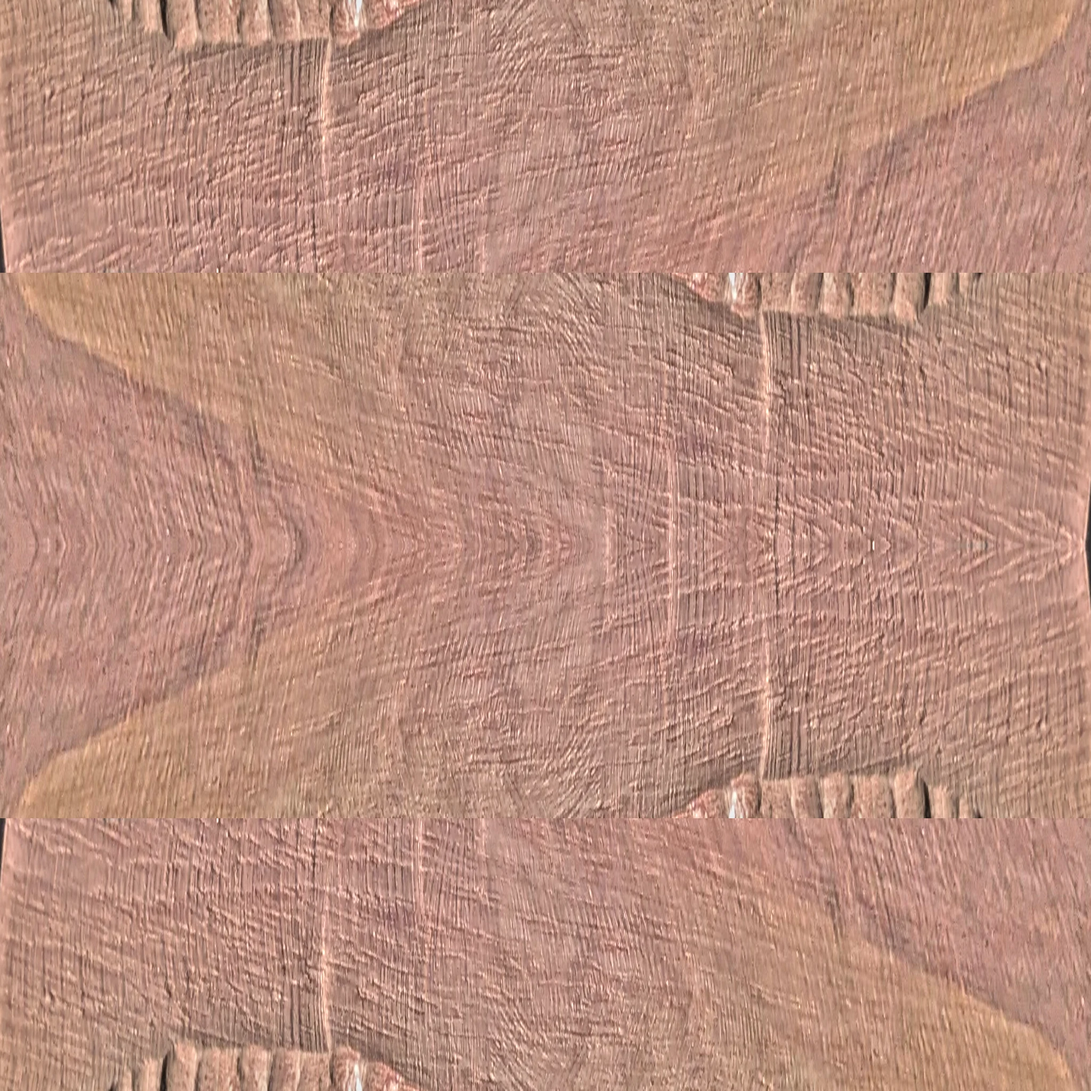
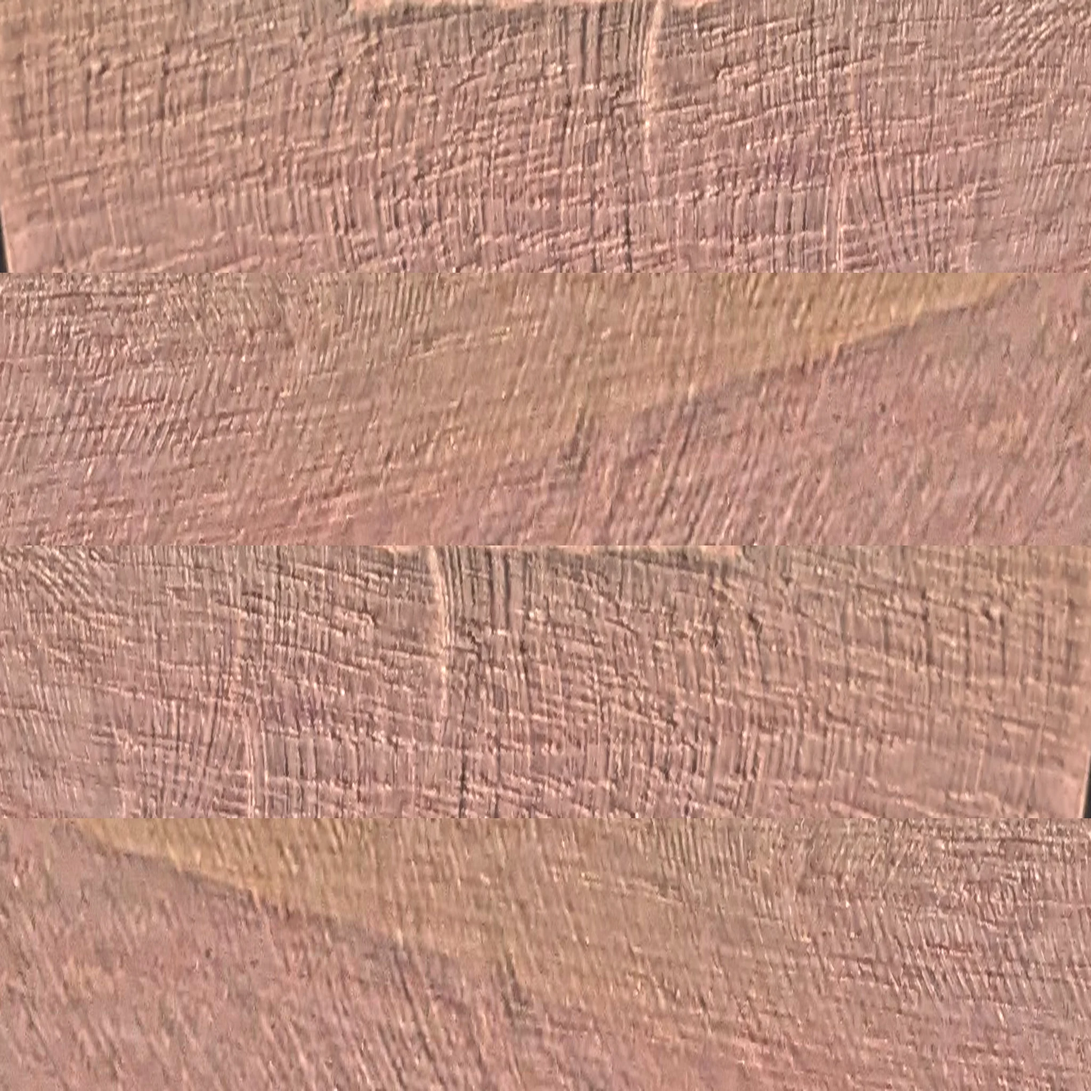
feat(diploma): a polaroid of the real model that turns the 3D
Top left of the site model panel, beside the text: the first eight photos of
the real model, taken every 45 degrees around it. A click brings the next
photo on top and turns the 3D to show the model from the same side; eight
clicks, a full turn. The photos are framed on the centre of the model at the
same size, so going through them the model turns on itself, and share the
same wood colour as the 3D.

The sawn sides now use two distinct pieces of the lit face, so neighbouring
sides never repeat, and no strip of the carved edge shows at their foot.

diff --git a/index.html b/index.html
@@ -1235,6 +1235,24 @@
                         <div class="sticker-title-wrap sticker-title-wrap--right">
                             <h3 class="sticker-title font-sketch" data-i18n="proj_panel_model">MAQUETTE DE SITE</h3>
                         </div>
+                        <!-- The eight first photos of the real model, one every 45 degrees around it: each click
+                             brings the next one on top and turns the 3D to the same side. -->
+                        <button class="site-model-polaroid" type="button" aria-label="Photos de la vraie maquette : photo suivante, et la maquette 3D tourne d'un huitième de tour pour la montrer du même côté" data-i18n-aria="aria_model_polaroid">
+                            <span class="site-model-polaroid-frame">
+                                <span class="site-model-polaroid-window">
+                                    <img class="site-model-polaroid-photo is-active" src="assets/maquette/polaroid-1-400.webp" srcset="assets/maquette/polaroid-1-400.webp 400w, assets/maquette/polaroid-1.webp 800w" sizes="(max-width: 768px) 180px, 230px" width="800" height="600" alt="" data-angle="45.2" loading="lazy" decoding="async">
+                                    <img class="site-model-polaroid-photo" src="assets/maquette/polaroid-2-400.webp" srcset="assets/maquette/polaroid-2-400.webp 400w, assets/maquette/polaroid-2.webp 800w" sizes="(max-width: 768px) 180px, 230px" width="800" height="600" alt="" data-angle="-0.4" loading="lazy" decoding="async">
+                                    <img class="site-model-polaroid-photo" src="assets/maquette/polaroid-3-400.webp" srcset="assets/maquette/polaroid-3-400.webp 400w, assets/maquette/polaroid-3.webp 800w" sizes="(max-width: 768px) 180px, 230px" width="800" height="600" alt="" data-angle="-52.2" loading="lazy" decoding="async">
+                                    <img class="site-model-polaroid-photo" src="assets/maquette/polaroid-4-400.webp" srcset="assets/maquette/polaroid-4-400.webp 400w, assets/maquette/polaroid-4.webp 800w" sizes="(max-width: 768px) 180px, 230px" width="800" height="600" alt="" data-angle="-91.5" loading="lazy" decoding="async">
+                                    <img class="site-model-polaroid-photo" src="assets/maquette/polaroid-5-400.webp" srcset="assets/maquette/polaroid-5-400.webp 400w, assets/maquette/polaroid-5.webp 800w" sizes="(max-width: 768px) 180px, 230px" width="800" height="600" alt="" data-angle="-137.4" loading="lazy" decoding="async">
+                                    <img class="site-model-polaroid-photo" src="assets/maquette/polaroid-6-400.webp" srcset="assets/maquette/polaroid-6-400.webp 400w, assets/maquette/polaroid-6.webp 800w" sizes="(max-width: 768px) 180px, 230px" width="800" height="600" alt="" data-angle="178.7" loading="lazy" decoding="async">
+                                    <img class="site-model-polaroid-photo" src="assets/maquette/polaroid-7-400.webp" srcset="assets/maquette/polaroid-7-400.webp 400w, assets/maquette/polaroid-7.webp 800w" sizes="(max-width: 768px) 180px, 230px" width="800" height="600" alt="" data-angle="130.3" loading="lazy" decoding="async">
+                                    <img class="site-model-polaroid-photo" src="assets/maquette/polaroid-8-400.webp" srcset="assets/maquette/polaroid-8-400.webp 400w, assets/maquette/polaroid-8.webp 800w" sizes="(max-width: 768px) 180px, 230px" width="800" height="600" alt="" data-angle="87.7" loading="lazy" decoding="async">
+                                </span>
+                                <span class="site-model-polaroid-count font-sketch" aria-hidden="true">1 / 8</span>
+                                <svg class="site-model-polaroid-turn" viewBox="0 0 40 24" aria-hidden="true"><path d="M6 9 C 14 2, 28 2, 34 10 M29 4.5 L34.5 10.5 L27.5 12"/><path d="M34 15 C 26 22, 13 22, 6 14"/></svg>
+                            </span>
+                        </button>
                         <p class="panel-lede" data-i18n="lede_model">Une bûche de bois massif, taillée au ciseau à bois en trois jours de travail. Elle reprend le relief du site, avec la D67 creusée en sillon et une épingle rouge sur le terrain du projet.</p>
                         <p class="panel-tools" data-i18n="tools_model">Bois massif, ciseau à bois</p>
                         <div class="site-model" data-site-model="assets/maquette/maquette-v1.json">
@@ -1244,7 +1262,7 @@
                                     <img class="site-model-poster" src="assets/maquette/maquette-v1-affiche.webp" alt="Maquette de site en bois massif, taillée au ciseau à bois" data-i18n-alt="alt_model_poster" width="1600" height="990" loading="lazy" decoding="async">
                                     <canvas class="site-model-canvas" aria-hidden="true"></canvas>
                                     <svg class="site-model-sun-arc" aria-hidden="true"><path/></svg>
-                                    <div class="site-model-sun" tabindex="0" role="slider" aria-orientation="horizontal" aria-valuemin="6" aria-valuemax="174" aria-valuenow="135" aria-label="Déplacer le soleil pour voir les ombres du relief" data-i18n-aria="aria_model_sun">
+                                    <div class="site-model-sun" tabindex="0" role="slider" aria-orientation="horizontal" aria-valuemin="14" aria-valuemax="166" aria-valuenow="142" aria-label="Déplacer le soleil pour voir les ombres du relief" data-i18n-aria="aria_model_sun">
                                         <svg viewBox="0 0 40 40" aria-hidden="true"><circle cx="20" cy="20" r="7.5"/><path d="M20 4 V9 M20 31 V36 M4 20 H9 M31 20 H36 M8.7 8.7 L12.2 12.2 M27.8 27.8 L31.3 31.3 M8.7 31.3 L12.2 27.8 M27.8 12.2 L31.3 8.7"/></svg>
                                     </div>
                                     <div class="site-model-pin" aria-hidden="true">

diff --git a/css/site-model.css b/css/site-model.css
@@ -328,6 +328,117 @@
 
 .site-model-stage.is-moving-sun .site-model-sun { cursor: grabbing; }
 
+/* The polaroid of the real model, top left of the panel, beside the text (Even, 26/10/2026):
+   the eight first photos, one every 45 degrees around it. A click brings the next one on top and
+   turns the 3D to the same side. Like the reference photo of the drawings, larger, with two
+   cards behind it for the stack. */
+.site-model-polaroid {
+    position: absolute;
+    top: 92px;
+    left: max(20px, calc(50% - 610px));
+    z-index: 3;
+    width: 230px;
+    padding: 0;
+    border: 0;
+    background: none;
+    cursor: pointer;
+    transform: rotate(-6deg);
+    transition: transform 0.35s var(--ease-overshoot);
+}
+
+.site-model-polaroid:hover { transform: rotate(-4deg) translateY(-4px); }
+
+.site-model-polaroid:focus-visible {
+    border-radius: 4px;
+    outline: 2px solid var(--white);
+    outline-offset: 6px;
+}
+
+/* Two blank cards behind the photo: the stack. */
+.site-model-polaroid::before,
+.site-model-polaroid::after {
+    content: '';
+    position: absolute;
+    inset: 0;
+    border-radius: 2px;
+    background: var(--photo-paper);
+    box-shadow: 0 8px 18px rgb(0 0 0 / 45%);
+}
+
+.site-model-polaroid::before { transform: rotate(7deg) translate(6px, 4px); }
+.site-model-polaroid::after { transform: rotate(-4deg) translate(-5px, 3px); }
+
+.site-model-polaroid-frame {
+    position: relative;
+    z-index: 1;
+    display: block;
+    padding: 10px 10px 38px;
+    border-radius: 2px;
+    background: var(--photo-paper);
+    box-shadow: 0 14px 26px rgb(0 0 0 / 55%);
+}
+
+.site-model-polaroid.is-shuffling .site-model-polaroid-frame { animation: site-model-shuffle 0.45s ease-out; }
+
+@keyframes site-model-shuffle {
+    35% { transform: translate(-16px, -6px) rotate(-5deg); }
+    100% { transform: none; }
+}
+
+.site-model-polaroid-window {
+    position: relative;
+    display: block;
+    overflow: hidden;
+    aspect-ratio: 4 / 3;
+    background: #1b2430;
+}
+
+.site-model-polaroid-photo {
+    position: absolute;
+    inset: 0;
+    width: 100%;
+    height: 100%;
+    object-fit: cover;
+    opacity: 0;
+    transition: opacity 0.35s ease;
+}
+
+.site-model-polaroid-photo.is-active { opacity: 1; }
+
+.site-model-polaroid-count {
+    position: absolute;
+    right: 12px;
+    bottom: 8px;
+    color: #2a2a2a;
+    font-size: 1.3rem;
+    letter-spacing: 1px;
+}
+
+.site-model-polaroid-turn {
+    position: absolute;
+    left: 12px;
+    bottom: 9px;
+    width: 34px;
+    height: 21px;
+    fill: none;
+    stroke: var(--red);
+    stroke-width: 2.2;
+    stroke-linecap: round;
+    stroke-linejoin: round;
+}
+
+/* Below this width the text would run under it: the polaroid sits above the text instead. */
+@media (max-width: 1240px) {
+    .site-model-polaroid {
+        position: relative;
+        top: auto;
+        left: auto;
+        display: block;
+        margin: -18px auto 34px;
+        width: 210px;
+    }
+}
+
 /* Without WebGL, or when loading failed: the photo of the model alone. */
 .site-model.is-unavailable .site-model-canvas,
 .site-model.is-unavailable .site-model-pin,
@@ -371,6 +482,8 @@
         margin-left: -35%;
     }
 
+    .site-model-polaroid { width: 180px; }
+
     .site-model-credit {
         margin-right: 0;
         padding: 0 16px;
@@ -379,5 +492,7 @@
 
 @media (prefers-reduced-motion: reduce) {
     .site-model-pin-icon { animation: none; }
+    .site-model-polaroid.is-shuffling .site-model-polaroid-frame { animation: none; }
+    .site-model-polaroid-photo { transition: none; }
     .site-model.is-loading .site-model-poster { animation: none; }
 }

diff --git a/js/site-model/motion.js b/js/site-model/motion.js
@@ -15,18 +15,41 @@ const DEG_PER_WIDTH = 300;
 const HOLD_MS = 80;
 const KEY_STEP_DEG = 30;
 
+// Starts gently, ends softly, with no bounce (turns to a photo, descent of the site view).
+const easeInOut = t => (t < 0.5 ? 4 * t * t * t : 1 - Math.pow(-2 * t + 2, 3) / 2);
+
+/** Signed turn from one angle to another, the short way or in the given direction (1 or -1). */
+function turnDelta(from, to, direction) {
+    const delta = ((to - from) % 360 + 540) % 360 - 180;
+    return direction && delta * direction < 0 ? delta + direction * 360 : delta;
+}
+
+/** One step of a turn to an angle; returns the turn, or null once it has arrived. */
+function stepTween(tween, turn, dt) {
+    const next = { ...tween, t: Math.min(1, tween.t + dt / tween.duration) };
+    turn.angle = next.from + next.delta * easeInOut(next.t);
+    turn.velocity = 0;
+    return next.t >= 1 ? null : next;
+}
+
 /** The turn. `reducedMotion`: no turn of its own, the drag still works. */
 export function createTurn(reducedMotion) {
     const turn = { angle: 0, velocity: reducedMotion ? 0 : AUTO_DEG_PER_S, direction: 1 };
     let dragging = false;
+    let tween = null; // a turn to a given angle (a photo of the polaroid)
+    let hold = false; // after such a turn the model stays on that side, until it is grabbed
     let sample = 0;
     let lastX = 0;
     let lastTime = 0;
-    const autoSpeed = () => (reducedMotion ? 0 : AUTO_DEG_PER_S * turn.direction);
+    const autoSpeed = () => (reducedMotion || hold ? 0 : AUTO_DEG_PER_S * turn.direction);
     return {
         get angle() { return turn.angle; },
         get dragging() { return dragging; },
         step(dt) {
+            if (tween) {
+                tween = stepTween(tween, turn, dt);
+                return;
+            }
             if (!dragging) {
                 const target = autoSpeed();
                 turn.velocity = target + (turn.velocity - target) * Math.exp(-dt / FRICTION_S);
@@ -34,6 +57,8 @@ export function createTurn(reducedMotion) {
             }
         },
         grab(x, time) {
+            tween = null;
+            hold = false;
             dragging = true;
             sample = 0;
             lastX = x;
@@ -55,18 +80,26 @@ export function createTurn(reducedMotion) {
         },
         /** Keyboard: a push of about KEY_STEP_DEG in the given direction. */
         nudge(sign) {
+            tween = null;
+            hold = false;
             turn.direction = sign;
             turn.velocity += sign * KEY_STEP_DEG / FRICTION_S;
+        },
+        /**
+         * Turns the model to an angle (degrees), in the given direction (1 or -1), then holds it
+         * there: the photo of the polaroid and the 3D show the same side.
+         */
+        turnTo(target, direction) {
+            const delta = turnDelta(turn.angle, target, direction);
+            tween = { from: turn.angle, delta, t: 0, duration: reducedMotion ? 0.001 : 0.7 + Math.abs(delta) / 180 * 0.5 };
+            hold = true;
+            if (direction) turn.direction = direction;
         },
     };
 }
 
 const DESCENT_MS = 1100;
 const LIFT_CURVE = 1.6;
-
-// Starts gently, lands softly: the last part of the way slows down to a stop, with no bounce. The
-// bounce used to sink the site view under the wooden sides, which then stuck out around it.
-const easeInOut = t => (t < 0.5 ? 4 * t * t * t : 1 - Math.pow(-2 * t + 2, 3) / 2);
 
 /** The descent of the site view. */
 export function createDescent(reducedMotion) {

diff --git a/js/site-model/polaroid.js b/js/site-model/polaroid.js
@@ -1,0 +1,51 @@
+/**
+ * Site model, the polaroid: the first eight photos of the real model, taken one every 45 degrees
+ * around it (Even, 26/10/2026). A click, Enter or Space brings the next photo on top (the arrow
+ * keys go either way), and the 3D turns to show the model from the same side: eight photos, a
+ * full turn. The photos are framed on the centre of the model, at the same size, so that going
+ * through them, the model turns on itself.
+ *
+ * Each photo carries in data-angle the angle of the 3D that shows the same side
+ * (.claude/maquette-site/polaroids.py). The polaroid works before the 3D is loaded: the photos
+ * change, and the model turns once it is there.
+ */
+
+const NEXT_DIRECTION = -1; // the photos were taken turning that way round the model
+
+/**
+ * @param {HTMLElement} root the polaroid button
+ * @param {(angle: number, direction: number) => void} onShow called with the angle of the photo shown
+ */
+export function createPolaroid(root, onShow) {
+    const photos = [...root.querySelectorAll('.site-model-polaroid-photo')];
+    const count = root.querySelector('.site-model-polaroid-count');
+    if (photos.length === 0) return;
+    let index = 0;
+    const show = (next, direction) => {
+        index = (next + photos.length) % photos.length;
+        photos.forEach((photo, i) => {
+            photo.classList.toggle('is-active', i === index);
+            if (i === index) photo.loading = 'eager';
+        });
+        if (count) count.textContent = `${index + 1} / ${photos.length}`;
+        // The shuffle starts again on each click, even a quick one.
+        root.classList.remove('is-shuffling');
+        requestAnimationFrame(() => root.classList.add('is-shuffling'));
+        onShow(Number(photos[index].dataset.angle), direction);
+    };
+    // The next photo is fetched ahead, so that it is there when it comes on top.
+    const prefetch = () => { photos[(index + 1) % photos.length].loading = 'eager'; };
+    root.addEventListener('click', () => {
+        show(index + 1, NEXT_DIRECTION);
+        prefetch();
+    });
+    root.addEventListener('pointerenter', prefetch, { once: true });
+    root.addEventListener('keydown', event => {
+        const step = { ArrowRight: 1, ArrowDown: 1, ArrowLeft: -1, ArrowUp: -1 }[event.key];
+        if (!step) return;
+        event.preventDefault();
+        show(index + step, step * NEXT_DIRECTION);
+        prefetch();
+    });
+    root.addEventListener('animationend', () => root.classList.remove('is-shuffling'));
+}

diff --git a/js/site-model/index.js b/js/site-model/index.js
@@ -20,6 +20,7 @@ import { buildScene } from './scene.js';
 import { createTurn, createDescent } from './motion.js';
 import { createCompass, createPin, headingOf } from './overlay.js';
 import { createSun } from './sun.js';
+import { createPolaroid } from './polaroid.js';
 
 const THREE_URL = new URL('../../vendor/three-0.186.1/three.module.js', import.meta.url).href;
 const LOAD_MARGIN = '700px 0px';
@@ -154,7 +155,7 @@ function runLoop(THREE, view, model, parts, root) {
     document.addEventListener('visibilitychange', update);
 }
 
-async function start(root) {
+async function start(root, link) {
     root.classList.add('is-loading');
     const THREE = await import(THREE_URL);
     const stage = root.querySelector('.site-model-stage');
@@ -183,6 +184,7 @@ async function start(root) {
     };
     on(EVENTS.LANGUAGE_CHANGE, ({ lang }) => parts.compass.setLanguage(lang));
     wireTurn(stage, parts.turn, root);
+    link.turn = parts.turn;
     wireDescent(parts.handle, parts.rail, parts.descent);
     canvas.addEventListener('webglcontextlost', () => root.classList.add('is-unavailable'));
     root.classList.remove('is-loading');
@@ -192,10 +194,14 @@ async function start(root) {
 /** Starts each site model on the page when it comes near the screen. */
 export function initSiteModel() {
     document.querySelectorAll('[data-site-model]').forEach(root => {
+        // The polaroid of the real model turns the 3D once it is loaded.
+        const link = { turn: null };
+        const polaroid = root.closest('.panel')?.querySelector('.site-model-polaroid');
+        if (polaroid) createPolaroid(polaroid, (angle, direction) => link.turn?.turnTo(angle, direction));
         const observer = new IntersectionObserver(entries => {
             if (!entries.some(entry => entry.isIntersecting)) return;
             observer.disconnect();
-            start(root).catch(error => {
+            start(root, link).catch(error => {
                 root.classList.remove('is-loading');
                 root.classList.add('is-unavailable');
                 console.warn('Site model unavailable:', error);

diff --git a/js/i18n/dictionary.js b/js/i18n/dictionary.js
@@ -269,6 +269,7 @@ export const TRANSLATIONS = {
         aria_model_turn: "Maquette de site en 3D : glissez à gauche ou à droite, ou utilisez les flèches du clavier, pour la faire tourner",
         aria_model_drop: "Poser la vue du vrai site sur la maquette",
         aria_model_sun: "Déplacer le soleil pour voir les ombres du relief",
+        aria_model_polaroid: "Photos de la vraie maquette : photo suivante, et la maquette 3D tourne d'un huitième de tour pour la montrer du même côté",
         model_drop_hint: "Le site",
         model_credit: "Vue du site : photo aérienne © IGN (BD ORTHO, avril 2026), posée sur le relief de la maquette",
         alt_model_poster: "Maquette de site en bois massif, taillée au ciseau à bois",
@@ -645,6 +646,7 @@ export const TRANSLATIONS = {
         aria_model_turn: "Site model in 3D: drag left or right, or use the arrow keys, to turn it",
         aria_model_drop: "Lay the view of the real site on the model",
         aria_model_sun: "Move the sun to see the shadows of the relief",
+        aria_model_polaroid: "Photos of the real model: next photo, and the 3D model turns an eighth of a turn to show it from the same side",
         model_drop_hint: "The site",
         model_credit: "Site view: IGN aerial photo (BD ORTHO, April 2026), laid on the relief of the model",
         alt_model_poster: "Site model in solid wood, carved with a wood chisel",
